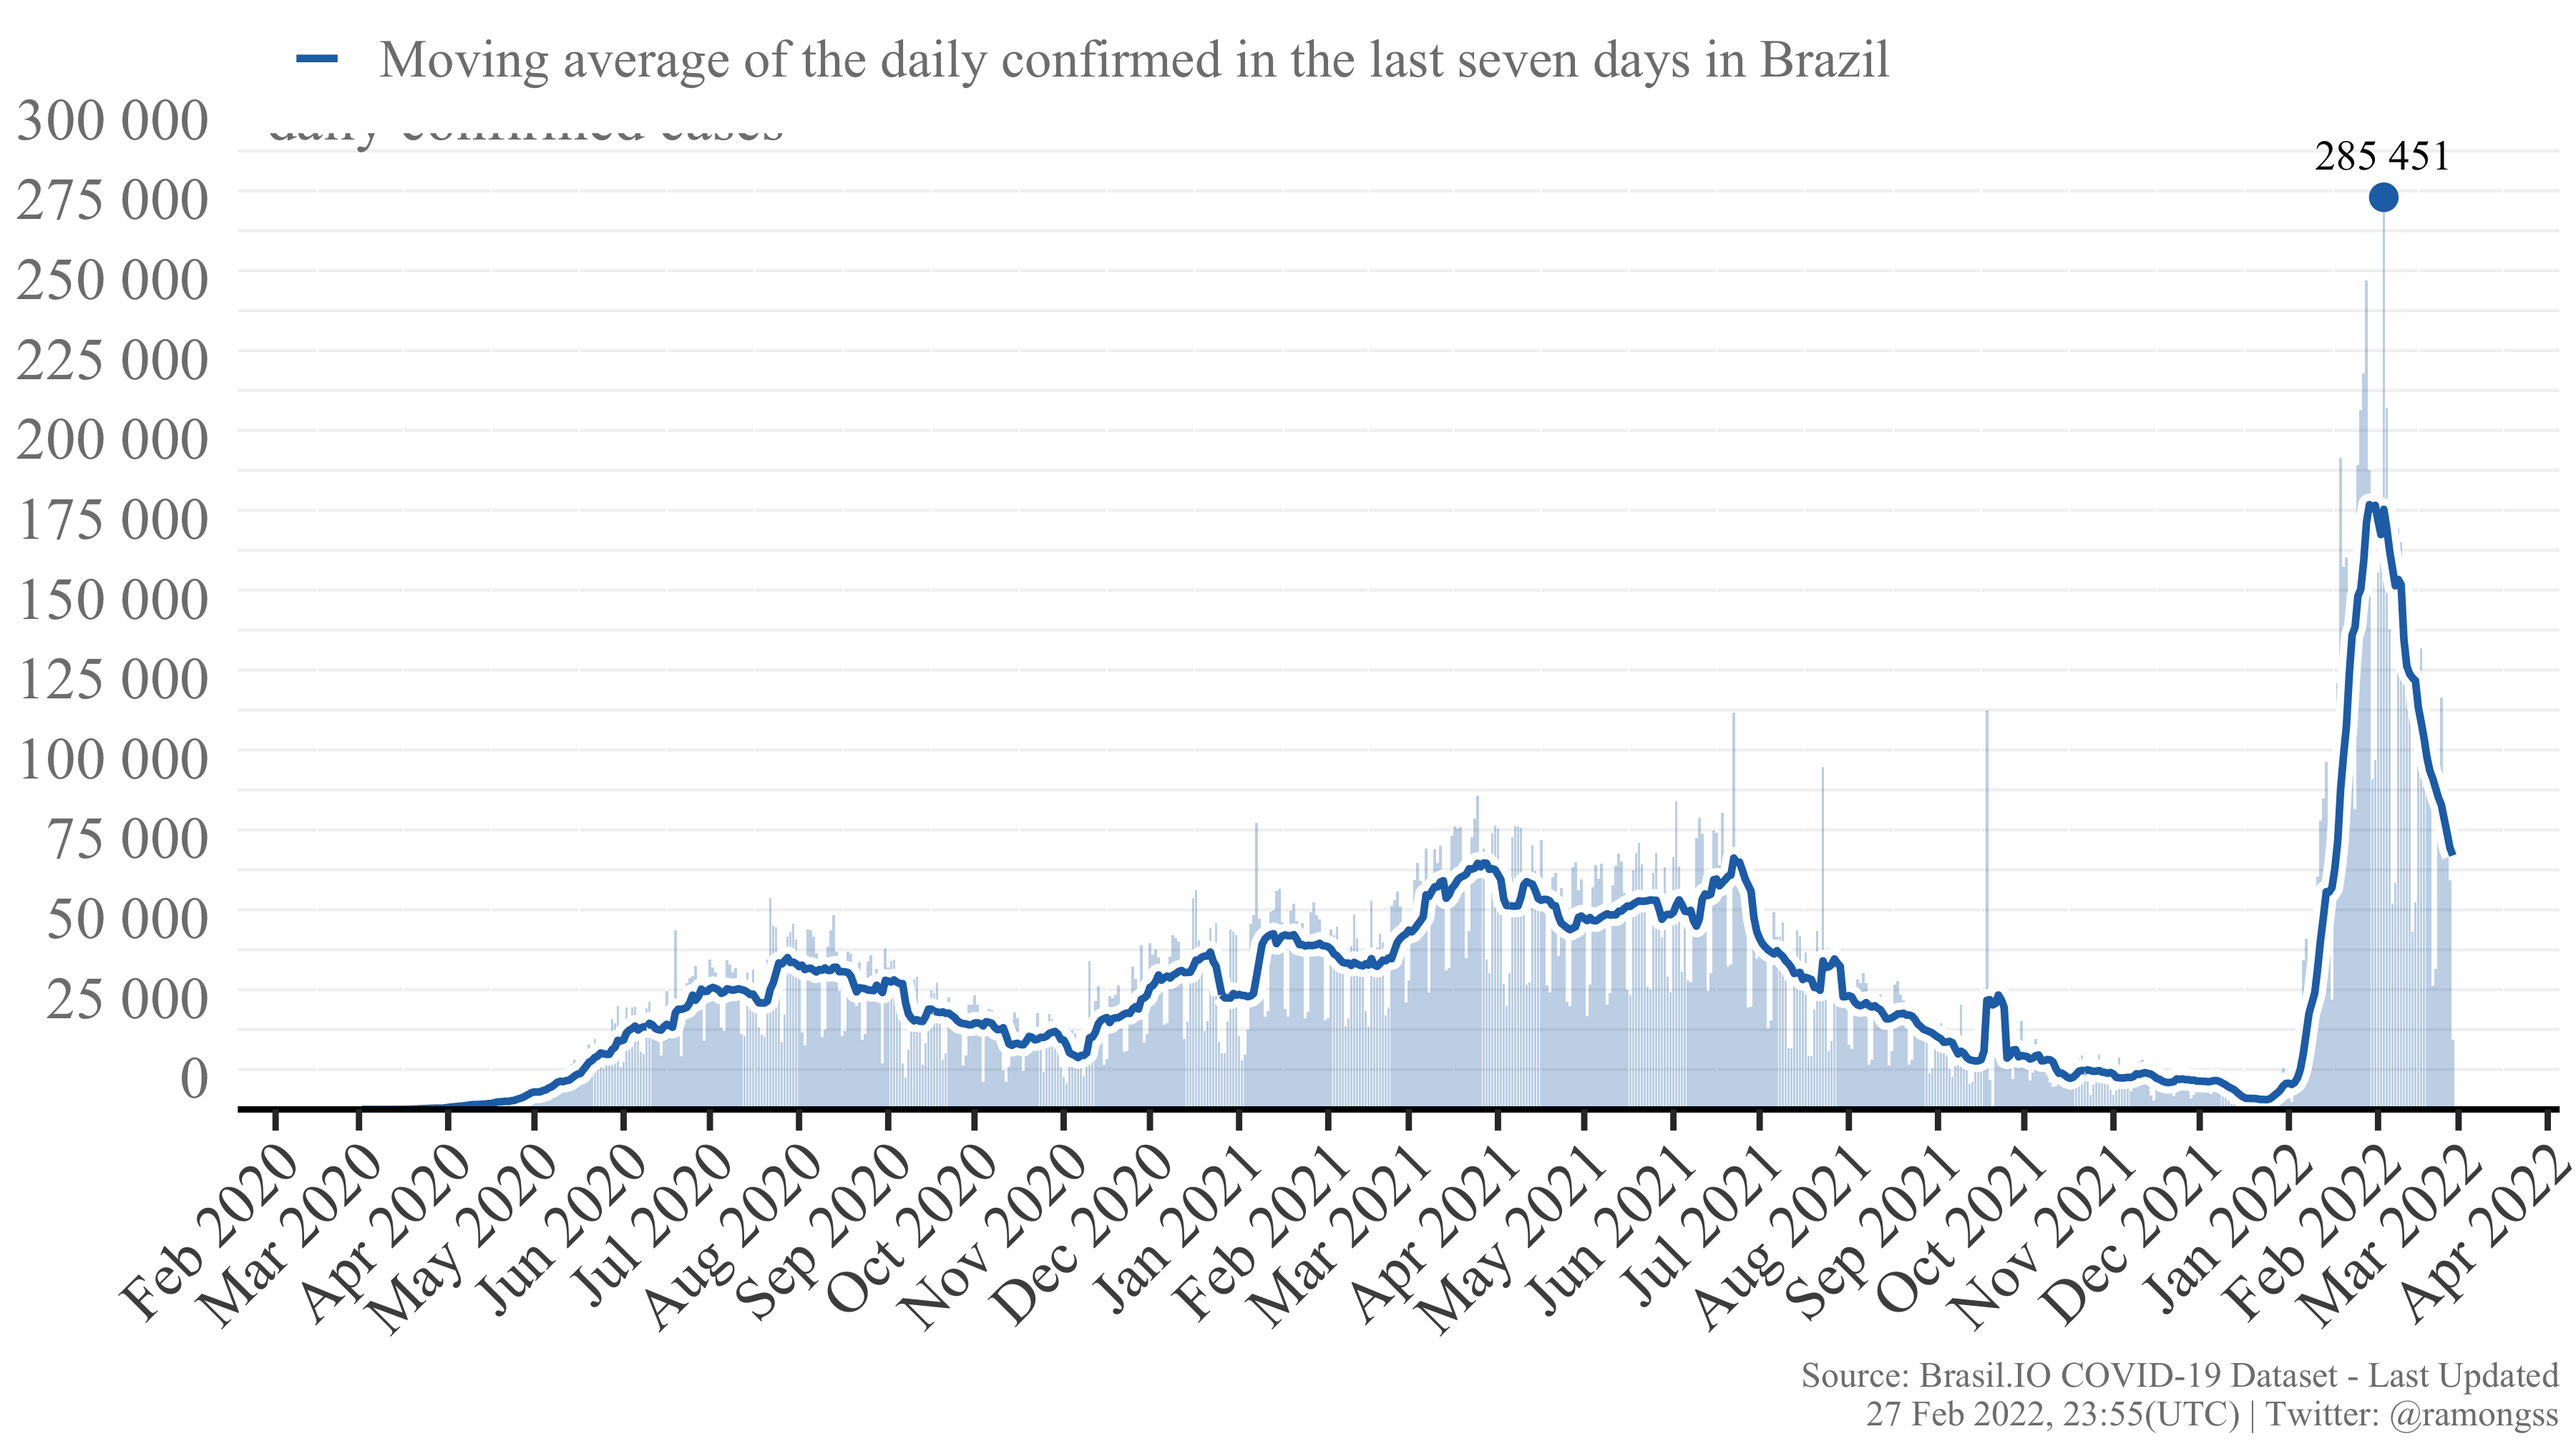
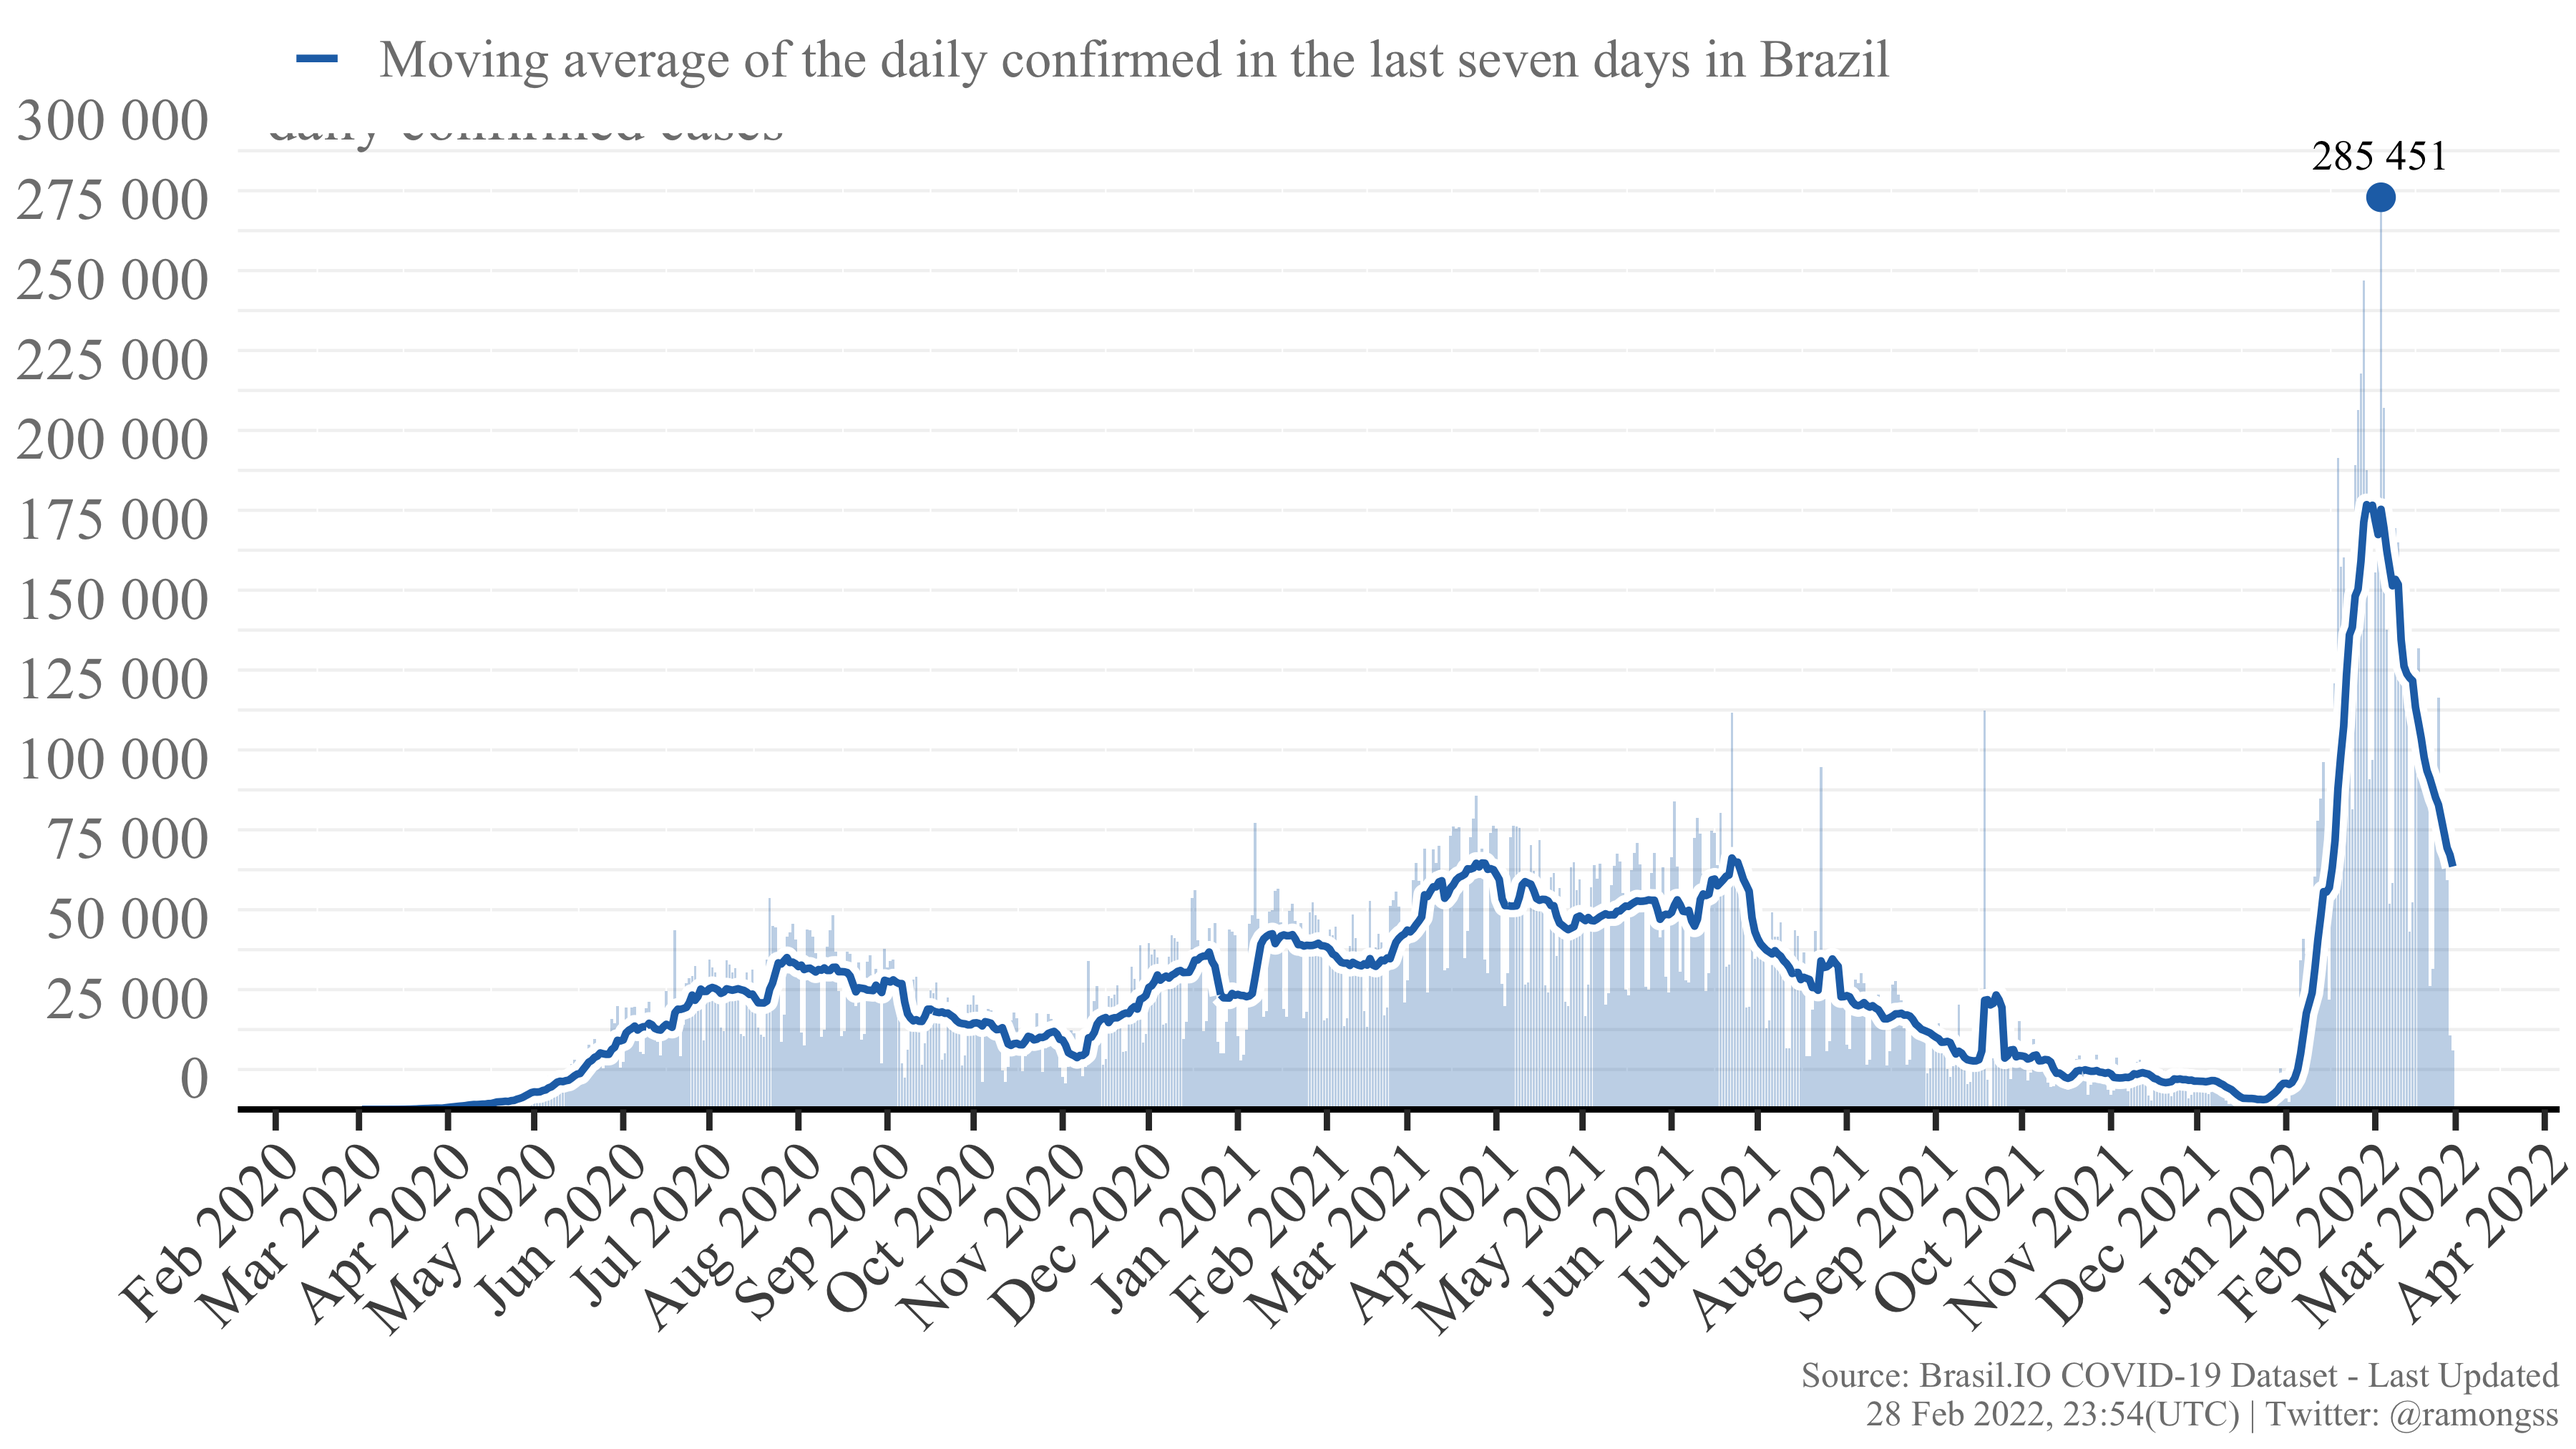
Re-build README.Rmd

diff --git a/README.md b/README.md
@@ -27,8 +27,8 @@ download_brasilio_table <- function(dataset = "covid19", table_name){
 
 ## COVID-19 Confirmed cases
 
-Currently, Brazil has a total of **28,776,794** confirmed cases at **27
-Feb, 2022**, with **21,815** new confirmed cases. The daily maximum
+Currently, Brazil has a total of **28,796,509** confirmed cases at **28
+Feb, 2022**, with **18,359** new confirmed cases. The daily maximum
 incidence was **285,451** confirmed cases at **03 Feb, 2022**. Here
 follows the Figure showing the confirmed case incidence as the bars, and
 the line as the moving average of the last 7 days.
@@ -37,8 +37,8 @@ the line as the moving average of the last 7 days.
 
 ## COVID-19 Deaths
 
-Currently, Brazil has a total of **649,436** deaths at **27 Feb, 2022**,
-with **201** new deaths. The daily maximum deaths incidence was
+Currently, Brazil has a total of **649,673** deaths at **28 Feb, 2022**,
+with **223** new deaths. The daily maximum deaths incidence was
 **4,148** deaths at **08 Apr, 2021**. Here follows the Figure showing
 the deaths incidence as the bars, and the line as the moving average of
 the last 7 days.
@@ -49,4 +49,4 @@ the last 7 days.
 
 This page is daily updated automatically using Github Actions.
 
-*Last update: 27 Feb 2022, 23:55 (UTC).*
+*Last update: 28 Feb 2022, 23:54 (UTC).*
